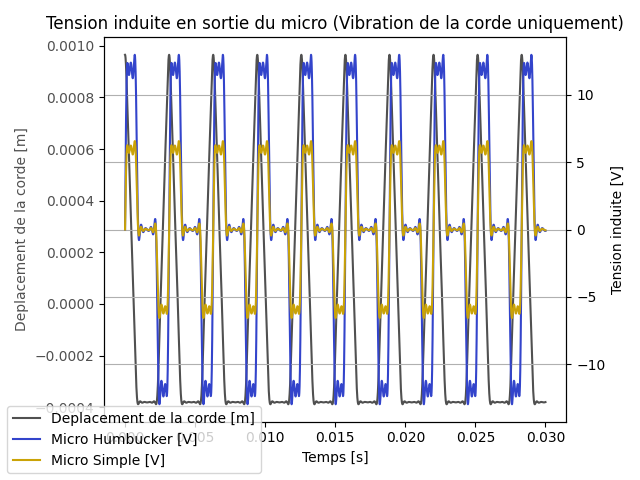
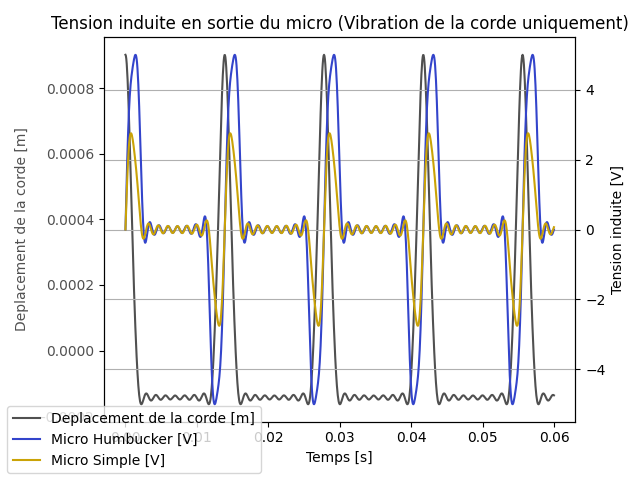
Simplified expression

diff --git a/Python/Code/Modele_fem.py b/Python/Code/Modele_fem.py
@@ -18,14 +18,16 @@ print("Bibliotheques importees.")
 print("\nInitialisation des constantes physiques et Electromagnetiques...")
 A = 1*10**(-3)          #? Amplitude initiale de vibration de la corde [m]
 mu = 9*10**(-3)         #? Masse linéique de la corde [kg.m-1]
-T = 1784                #? Tension de la corde [N]
-xm = 0.2                #? Distance entre la source la corde et le micro [m]
-x1 = xm - 0.01          #? Distance entre la source la corde et le micro [m]
-x2 = xm + 0.01          #? Distance entre la source la corde et le micro [m]
-L = 0.70                #? Longueur de la corde [m]
-x0 = L/4                #? Origine de la perturbation
+xm = 0.105              #? Distance entre la source la corde et le micro [m]
+x1 = 0.140              #? Distance entre la source la corde et le micro [m]
+x2 = 0.160              #? Distance entre la source la corde et le micro [m]
+L = 0.84                #? Longueur de la corde [m]
+x0 = 0.105              #? Origine de la perturbation
 
-print(f"frequence de la note : f = {np.sqrt(T/mu)/(2*L)}")
+F = 72                   #? Frequence de la note [Hz]
+print(f"Tension de la corde : T = {4*mu*(L*F)**2} N")
+print(f"Frequence de la note : f = {F} Hz")
+T = 4*mu*(L*F)**2      #? Tension de la corde [N]
 
 
                                             #!######################!#
@@ -78,7 +80,7 @@ def fem_singlecoil(n: int, N: int, xm: float, t: np.ndarray) -> np.ndarray:
 
     for i in range(1, n+1):
         Bn = (2*A*np.sin((i*np.pi*x0)/(L)))/((x0)/(L)*(1-(x0)/(L))*np.pi**2*i**2)
-        s -= Bn*np.sin(np.pi*i*xm/L)*np.sin(i*np.pi*np.sqrt(T)*t/(L*np.sqrt(mu)))*i*np.pi*np.sqrt(T)/(L*np.sqrt(mu))
+        s -= Bn*np.sin(np.pi*i*xm/L)*np.sin(2*i*np.pi*F*t)*2*i*np.pi*F
 
     return -N*S*dBdy*s
 
@@ -100,10 +102,9 @@ def fem_humbucker(n: int, N: int, x1: float, x2: float, t: np.ndarray) -> np.nda
     
     for i in range(1, n+1):
         Bn = (2*A*np.sin((i*np.pi*x0)/(L)))/((x0)/(L)*(1-(x0)/(L))*np.pi**2*i**2)
-        s -= Bn*(np.sin(np.pi*i*x1/L)+np.sin(np.pi*i*x2/L))*np.sin(i*np.pi*np.sqrt(T)*t/(L*np.sqrt(mu)))*i*np.pi*np.sqrt(T)/(L*np.sqrt(mu))
+        s -= Bn*(np.sin(np.pi*i*x1/L)+np.sin(np.pi*i*x2/L))*np.sin(2*i*np.pi*F*t)*2*i*np.pi*F
     
     e = -N*S*dBdy*s
-    
     return e
 
 def B(x, f,t):
@@ -139,8 +140,8 @@ def dBdt(x: float, f: float, t: np.ndarray) -> np.ndarray:
 
 print("\nCalcul des tensions induites...")
 print("Echantillonnage...")
-Te = 1
-Ne = 100000
+Te = 0.06
+Ne = 1000
 fs = Ne/Te
 Na = 10
 print(f"Frequence d'echantillonnage : fs = {fs} Hz")
@@ -163,10 +164,13 @@ fem_h_tot = fem_h + fem_h_par
                                             #!######################!#
                                             #!          FFT         !#
                                             #!######################!#
+
+
 Color_c = "#505050"
 Color_h = "#3344CB"
 Color_s = "#CAA307"
 
+"""
 print("\nCalcul des FFT...")
 fft_s = np.fft.fft(fem_s_tot)
 fft_s_amp = 2 * np.abs(fft_s) / Ne
@@ -189,10 +193,11 @@ fft_h_amp = fft_h_amp[mask2]
 print("FFT calculees.")
 
 print("Affichage des FFT...")
+Title = "Spectre de la tension en sortie des micros (Fondamental à " + str(F) + " Hz)"
 plt.figure(figsize=(8,4))
 plt.plot(freqs, fft_h_amp, color=Color_h, label="Micro Humbucker")
 plt.plot(freqs, fft_s_amp, color=Color_s, label="Micro Simple")
-plt.title("Spectre de la tension en sortie des micros")
+plt.title(Title)
 plt.legend()
 plt.xlabel("Fréquence (Hz)")
 plt.ylabel("Tension [V]")
@@ -292,7 +297,6 @@ plt.grid()
 plt.savefig("Python/Exports/Total.png")
 plt.close()
 print("Courbes sauvegardees sous Python/Exports/Total.png.")
-"""
 
 
 print("\n---\nFin de l'execution de Modele_fem.py\n---\n")
